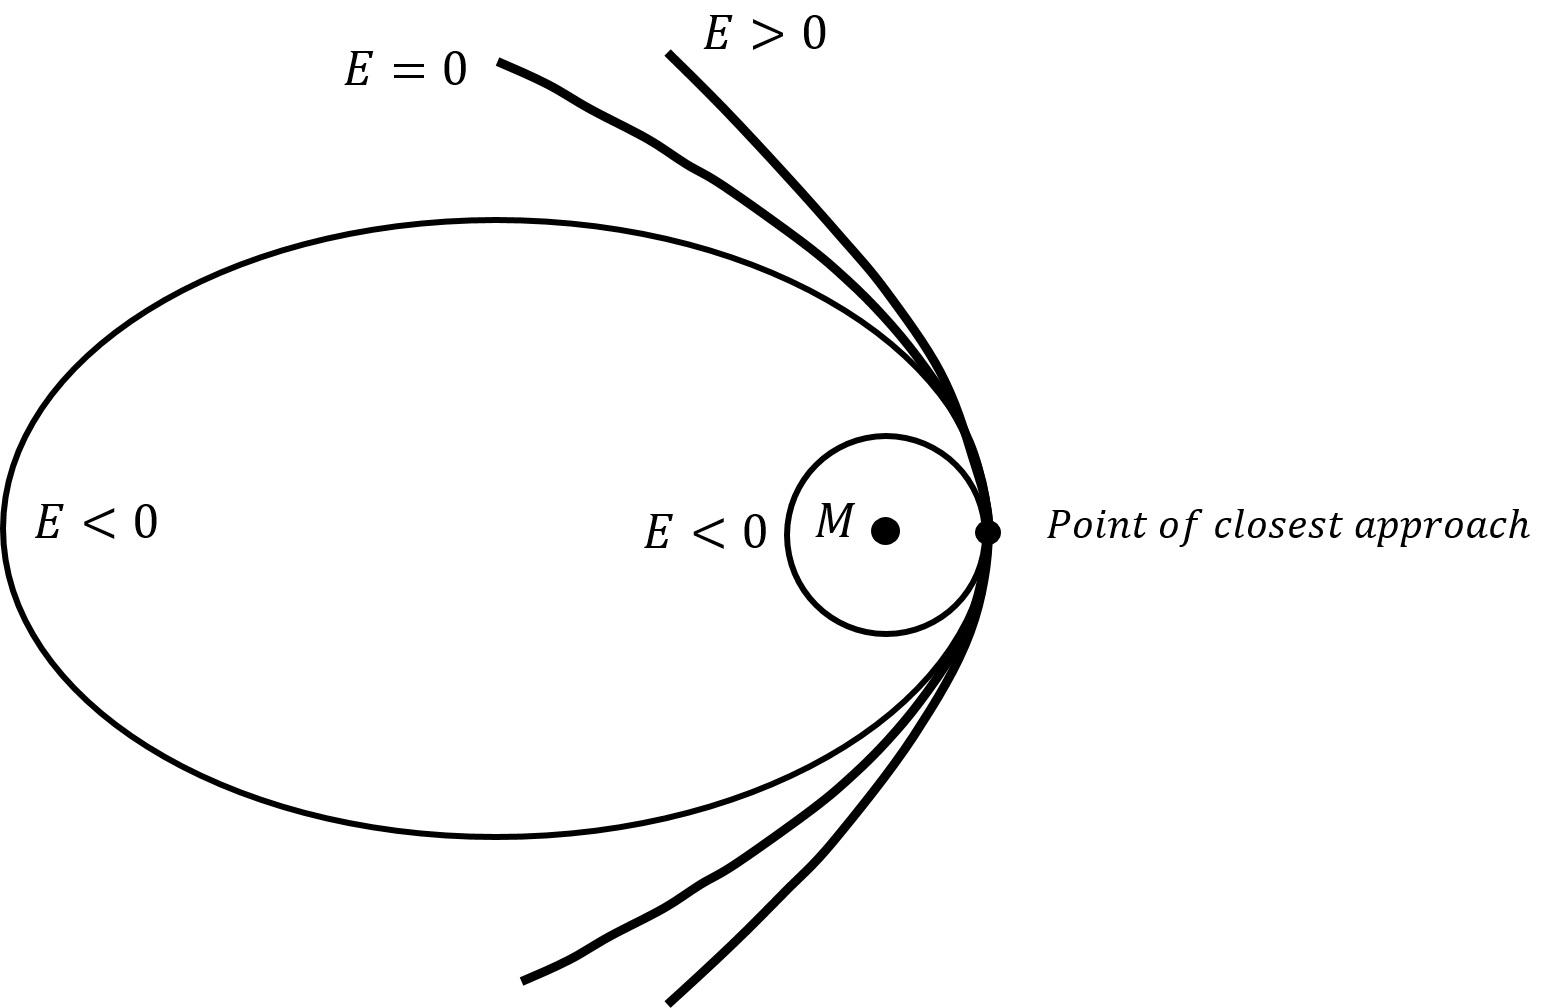
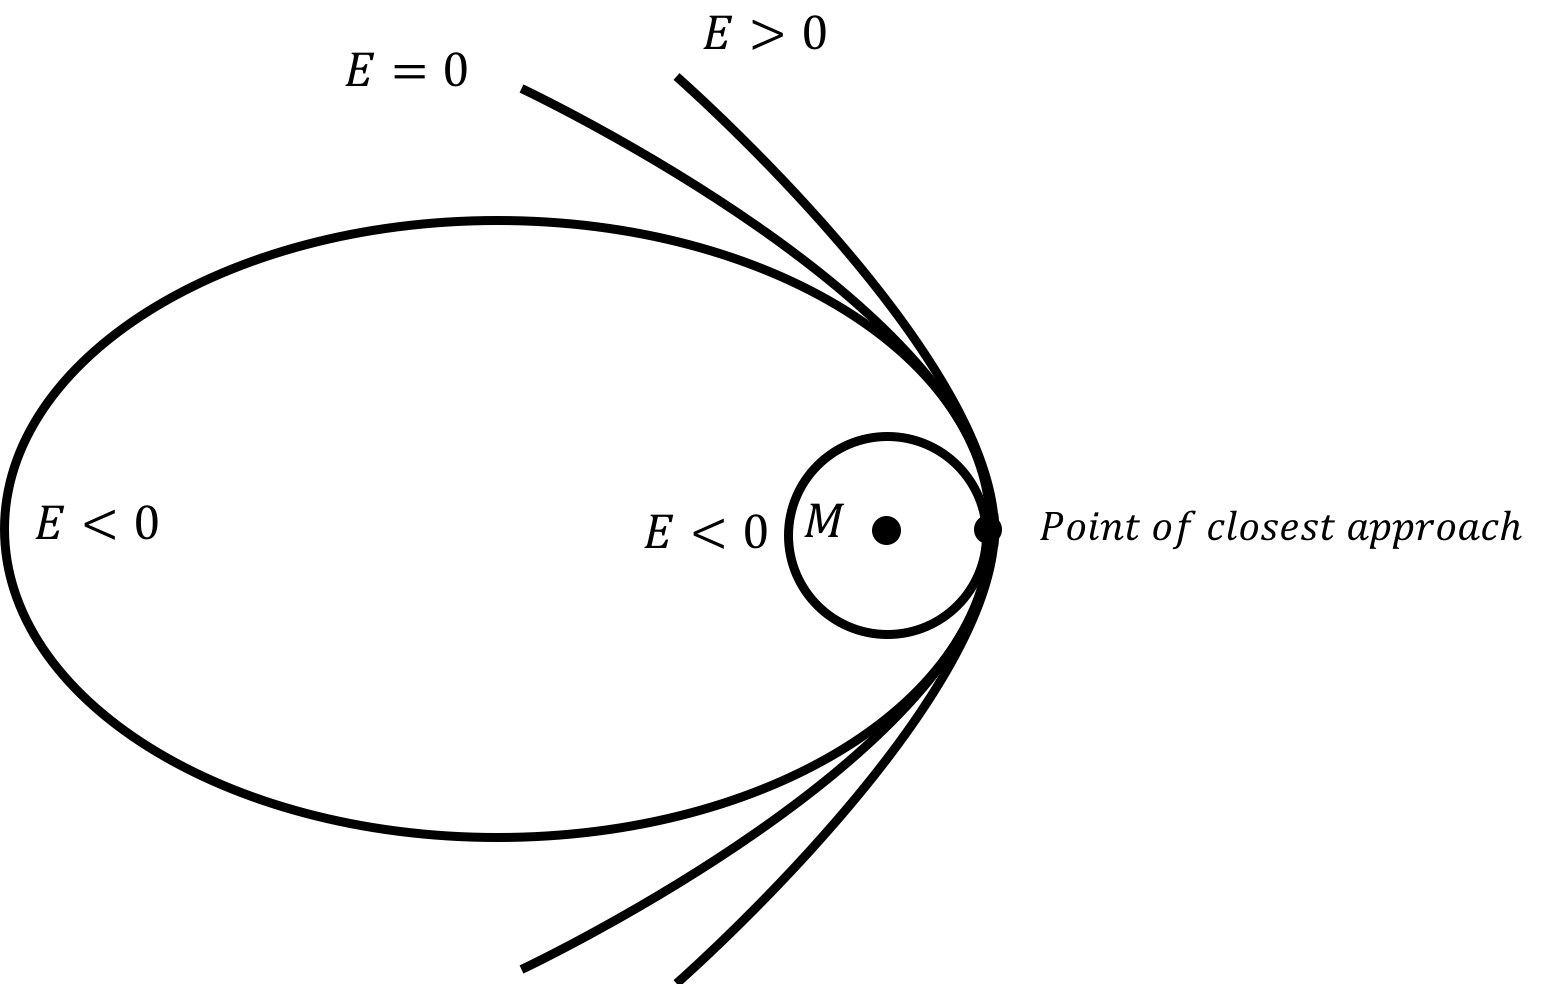
Edits/proofreading to Gravity chapter

Changed region(s): [[0.0, 0.4268, 0.9955, 1.0], [0.2178, 0.0, 0.6222, 0.3963], [0.0, 0.2134, 0.4355, 0.5488]]

diff --git a/tex/Gravity.tex b/tex/Gravity.tex
@@ -365,13 +365,13 @@ Here's an analogy to describe Gauss's Law for gravity: A famous celebrity is doi
 
 Now imagine that you haven't put up a barricade yet. A photographer is coming to the event, and you told him to stand at some location that is a distance $r$ from one of the celebrities. The photographer wants to know how crowded it will be when he is standing behind the barricade at that location. Gauss's law gives us a way to figure this out. If you know which celebrities are at the event ($M^{enc}$), you can determine how many people will be there (this is like finding $4\pi GM^{enc}$). Then, if you can build a barricade such that the fans are evenly distributed around it, and you know how long that barricade is ($\oint dA$), you can easily calculate how crowded it will be at some point along the barricade (you can just divide the number of people by the length of the barricade). 
 
-The barricade represents our Gaussian surface and, like a Gaussian surface, it can be whatever shape we want as long as it encloses the celebrities and passes through the point we are interested in. If we want to make sure the people are spread out evenly, the shape of the barricade is going to depend on the specific case. The shape of the barrier is going to depend on how many celebrities there are, how famous each one is, and their locations. For example, consider the case shown in Figure \ref{fig:gravity:barricadeanalogy}, which depicts two celebrities that are far apart from each other, who attract the same number of fans (this is analogous to having two spherical bodies of the same mass).
+The barricade represents our Gaussian surface and, like a Gaussian surface, it can be whatever shape we want as long as it encloses the celebrities and passes through the point we are interested in. If we want to make sure the people are spread out evenly, the shape of the barricade is going to depend on the specific case. It will depend on how many celebrities there are, how famous each one is, and their locations. For example, consider the case shown in Figure \ref{fig:gravity:barricadeanalogy}, which depicts two celebrities that are far apart from each other, who attract the same number of fans (this is analogous to having two spherical bodies of the same mass).
 
 \capfig{0.7\textwidth}{figures/Gravity/barricadeanalogy.png}{\label{fig:gravity:barricadeanalogy}There are two celebrities (two dots) enclosed by a barricade. They each have fans that want to be as close to them as possible, and a photographer located at $P$. We want to build a barricade so that the fans are spread out evenly. We can technically make the barricade on the left, but it isn't useful to us. The barricade on the right is useful because all of the fans are spread out evenly.}
 
 In this section, we used Gauss's law to find the gravitational field due to a spherical body. This is the simplest case, and in our analogy it's like having just one celebrity at the event the photographer is attending. In this case, the gravitational field is the same so long as the distance to the centre of the sphere is the same. This means that if we built a circular barricade with a radius $r$, all the fans would be evenly spread out, which makes sense. This is analogous to using a sphere of radius $r$ as our Gaussian surface to find the gravitational field due to the spherical body at a distance $r$.
 
-(Remember though that the Gaussian surface isn't a physical thing, so it won't affect the gravitational field. Its' just a mathematical tool we use where we take advantage of the field's geometry.)
+(Remember that the Gaussian surface isn't a physical thing, so it won't affect the gravitational field. Its' just a mathematical tool we use where we take advantage of the field's geometry.)
 \end{studentOpinion}
 
 We can also use Gauss' Law to determine the gravitational field \textbf{inside} of the body of mass $M$ and radius $R$. This is illustrated in Figure \ref{fig:gravity:gauss2}, which shows a spherical Gaussian surface of radius $r$ that is \textbf{inside} of the body of mass $M$.
@@ -512,36 +512,37 @@ The mechanical energy of a body of mass $m$ determines whether it is gravitation
 \item A \textbf{parabolic orbit} if the \textbf{mechanical energy is exactly zero}.
 \item A \textbf{hyperbolic orbit} if the \textbf{mechanical energy is bigger than zero}.
 \end{enumerate}
-The possible orbits are illustrated in Figure \ref{fig:gravity:conical}, and are curves in the family of ``conical sections'', as they can be found by the intersection of a plane and a cone. All conical sections have at least one ``focus'' point (ellipses have two) that corresponds to the location of $M$. 
+The possible orbits are illustrated in Figure \ref{fig:gravity:conical}, and are curves in the family of ``conic sections'', as they can be found by the intersection of a plane and a cone. All conic sections have at least one ``focus'' point (ellipses have two) that corresponds to the location of $M$. 
 \capfig{0.7\textwidth}{figures/Gravity/conical.png}{\label{fig:gravity:conical}The different possible orbits of $m$ due to the gravitational force of $M$ depend on the mechanical energy, $E$, of $m$. The orbits are drawn in a frame of reference where $M$ is at rest. }
 
-TODO: I think the figure with the orbits could be better. Note that I lifted the curves from actual conical curves with a common focus and traced out the unbound curves using powerpoint so that they would be correct....
-
 \section{Einstein's Theory of General Relativity}
-Newton's Universal Theory of Gravity was extremely successful at describing the motion of planets in the solar system, and allowed for high precision astronomy. For example, precision measurements of the orbit of Uranus showed that it appeared to be inconsistent with Newton's theory, unless the gravitational influence of another planet was included in the model. This led to the discovery of the planet Neptune. 
+Newton's Universal Theory of Gravity was extremely successful at describing the motion of planets in the solar system, and allowed for high precision astronomy. For example, precision measurements of  Uranus's orbit showed that it appeared to be inconsistent with Newton's theory, unless the gravitational influence of another planet was included in the model. This led to the discovery of the planet Neptune. 
 
-Some issues were however uncovered with Newton's theory. The orbit of Mercury was also noticed to be different than what Newton's theory could describe, but searches for another planet (Vulcan) proved unfruitful. In addition, Albert Einstein's theory of Special Relativity, published in 1905, was found to be incompatible with Newton's theory of gravity. One of the consequences of Special Relativity is that nothing can propagate faster than the speed of light. However, Newton's Universal Theory of Gravity implies that the gravitational force is transmitted instantaneously. In Newton's theory, if the Sun suddenly disappeared, Earth would immediately ``fall out'' of its orbit, and we would immediately know that the Sun has disappeared. This would violate Special Relativity, since there cannot exist any mechanism for us to know that the Sun has disappeared until a signal has propagated from the Sun to the Earth at the speed of light. In other words, for the $\SI{8}{min}$ that are required for light to travel from the Sun to the Earth, we cannot know that the Sun has disappeared: only when we literally see the Sun disappear would the Earth be ``allowed'' to fall out of its orbit.
+However, some issues with Newton's theory were uncovered. The orbit of Mercury was shown to be different than what Newton's theory could describe, but searches for another planet (Vulcan) were unsuccessful. In addition, Albert Einstein's theory of Special Relativity, published in 1905, was found to be incompatible with Newton's theory of gravity. One of the consequences of Special Relativity is that nothing can propagate faster than the speed of light. Newton's Universal Theory of Gravity implies that the gravitational force is transmitted instantaneously. In Newton's theory, if the Sun suddenly disappeared, Earth would immediately ``fall out'' of its orbit, and we would immediately know that the Sun has disappeared. This would violate Special Relativity because there cannot be a mechanism that would allow us to know that the sun has disappeared that travels faster than the speed of the light. In other words, for the $\SI{8}{min}$ that are required for light to travel from the Sun to the Earth, we cannot know that the Sun has disappeared: only when we literally see the Sun disappear would the Earth be ``allowed'' to fall out of its orbit.
 
-Einstein's Theory of General Relativity is a theory developed by Einstein in order to describe gravity in a way that is consistent with Special Relativity and the properties of how light propagates. Einstein was famous for his ``thought experiments'' that are designed to think about some of the implications of a theory, even if they would be very difficult experiments to carry out in practice. One such thought experiment is to consider what an observer would observe in an accelerating frame of reference.
+Einstein's Theory of General Relativity is a theory developed by Einstein in order to describe gravity in a way that is consistent with Special Relativity and the propagation of light. Einstein was famous for his ``thought experiments,'' which allow us to think about some of the implications of a theory, even if the experiments would be very difficult to carry out in practice. One such thought experiment is to consider what someone would observe in an accelerating frame of reference.
 
 Consider an observer in an elevator, as illustrated in Figure \ref{fig:gravity:elevator}. If the elevator is stationary at the surface of the Earth (left panel), and the observer is standing on a scale, they could measure their weight, $mg$, on the scale. The two forces on the observer are their weight and the normal force, which would be equal in magnitude since the observer is not accelerating. The normal force, read out by the scale, would thus correspond to their weight. To be more precise, the normal force would be equal to $m_gg$, where $m_g$ is the gravitational mass of the observer (that mass which is related to the force of gravity experienced by a mass).
 
-If instead, the elevator was placed in empty space, and the elevator was accelerating upwards with an acceleration of $g$ (right panel), the observer would still be able to measure their weight by stepping on the scale. The only force on the observer is the normal force from the scale, which must be equal to its mass times their acceleration $N=ma=mg$, since the observer is accelerating with the elevator. In this case, it is the inertial mass of the observer, $m_i$, that comes into play, so the normal read on the scale is $m_ig$.  
+If the elevator was instead placed in empty space, and the elevator was accelerating upwards with an acceleration of $g$ (right panel), the observer would still be able to measure their weight by stepping on the scale. The only force on the observer is the normal force from the scale, which must be equal to its mass times their acceleration $N=ma=mg$, since the observer is accelerating with the elevator. In this case, it is the inertial mass of the observer, $m_i$, that comes into play, so the normal force read on the scale is $m_ig$.  
 
 
-\capfig{0.8\textwidth}{figures/Gravity/elevator.png}{\label{fig:gravity:elevator} (Left:) A person standing on a scale in an elevator at rest at the surface of the Earth. (Right:) A person in an elevator that is accelerating in empty space with the same acceleration as that due to gravity at the Earth's surface. }
-
-
-TODO: Make above figure much better!
-
+\capfig{0.8\textwidth}{figures/Gravity/elevator.png}{\label{fig:gravity:elevator} (Left:) A person standing on a scale in an elevator at rest at the surface of the Earth. (Right:) A person in an elevator that is accelerating in empty space with the same acceleration as that due to gravity at the Earth's surface. The curvature of the light beam is exaggerated.}
 
 Einstein postulated that it would be impossible for the observer to distinguish whether they are at rest on the surface of the Earth, or in empty space accelerating with an acceleration of $g$. In other words, he postulated that the inertial and gravitational masses are exactly equivalent. This is what is called the ``Equivalence Principle''.
 
 This simple statement has dramatic implications. Special Relativity requires that light will travel in a straight line in empty space. If a beam of light enters and then exits the elevator, the observer on Earth and the one accelerating in empty space must observe the same thing, since they cannot distinguish between being on Earth or accelerating in space. The observer in space, who is accelerating, will observe that the beam of light bends as it crosses the elevator (the beam travels in a straight line as observed in an inertial reference frame, so the person in the accelerating elevator would see it follow a parabolic path). The observer on Earth must thus observe the same thing, namely that light will follow a curved path in the presence of a gravitational field.
 
-But... light travels in a straight line, so if the path of a beam of light is curved, it is space itself that is curved in the presence of a gravitational field! In other words, Einstein's Theory of General Relativity describes how the presence of mass (or energy) results in a curvature of space (and time). Thus, objects that are moving in a gravitational field are actually following Newton's First Law (they are moving at constant velocity in a straight line and no force is exerted on them) - they appear to follow a curved path, because it is space that is curved! It is strange, unexpected, but high precision measurements confirm that this correctly describes everything that we have measured!
+But... light travels in a straight line, so if the path of a beam of light is curved, it is space itself that is curved in the presence of a gravitational field! 
+
+TODO: clear this up - is it because its massless that it has to travel in a straight line?
+
+In other words, Einstein's Theory of General Relativity describes how the presence of mass (or energy) results in a curvature of space (and time). Thus, objects that are moving in a gravitational field are actually following Newton's First Law (they are moving at constant velocity in a straight line and no force is exerted on them). They appear to follow a curved path because it is space that is curved! It is strange and unexpected, but high precision measurements confirm that this correctly describes everything that we have measured!
 
 Einstein's theory was able to describe the orbit of Mercury, and the prediction that gravity leads to light following a curved path was confirmed by Eddington within five years of Einstein's theory being published. Another implication of the theory is that time goes by slower in the presence of a gravitational field. Clocks on Earth run slower than clocks in orbit (where the gravitational field is weaker). This effect is taken into account when using GPS to determine your position on Earth, since this is based on comparing the time that it takes signals to arrive to your position on Earth from different satellites.
+
+
+TODO: Maybe add diagram/thoughtbox that shows the ``bowling ball on a trampoline'' way of thinking about gravity and spacetime
 
 \newpage
 \section{Summary}
@@ -590,7 +591,7 @@ E = K + U = \frac{1}{2}mv^2 - G\frac{Mm}{r}
 \end{align*}
 where we have explicitly chosen $C=0$, and $v$ is the speed of $m$ relative $M$ (considered to be at rest). Furthermore, if no non-conservative forces do work on the body of mass $m$, the mechanical energy, $E$ is constant.
 
-If the mechanical energy of $m$ is negative, it is gravitationally bound to $M$. Depending on the mechanical energy of $m$ and its velocity at the point of closest approach to $M$, the orbit of $m$ will be described by one of four conical sections (circle, ellipse, parabola, hyperbola).
+If the mechanical energy of $m$ is negative, it is gravitationally bound to $M$. Depending on the mechanical energy of $m$ and its velocity at the point of closest approach to $M$, the orbit of $m$ will be described by one of four conic sections (circle, ellipse, parabola, hyperbola).
 
 Einstein's Theory of General Relativity describes gravitation as the bending of space and time caused by the presence of mass and energy. In Einstein's theory, objects follow straight (inertial) paths and do not feel a force of gravity. The curvature of space is what results in their apparent motion not being a straight line. Einstein's theory is based on the Equivalence Principle (inertial and gravitational mass are exactly equal) and the properties of how light propagates according to the Theory of Special Relativity.
 
@@ -627,7 +628,7 @@ E = mc^2
 \begin{tQuestion}Try doing this \end{tQuestion}
 
 \subsection{To try in the lab}
-Theory project: Prove, based on Newton's Universal Theory of Gravity, that the motion of orbiting bodies is given by a conical section. 
+Theory project: Prove, based on Newton's Universal Theory of Gravity, that the motion of orbiting bodies is given by a conic section. 
 
 \newpage
 \section{Sample problems and solutions}
